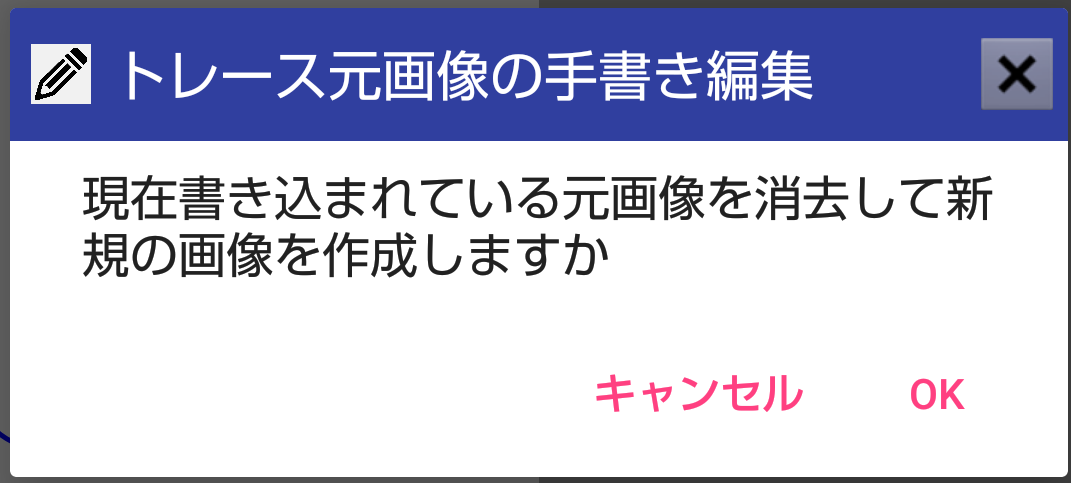
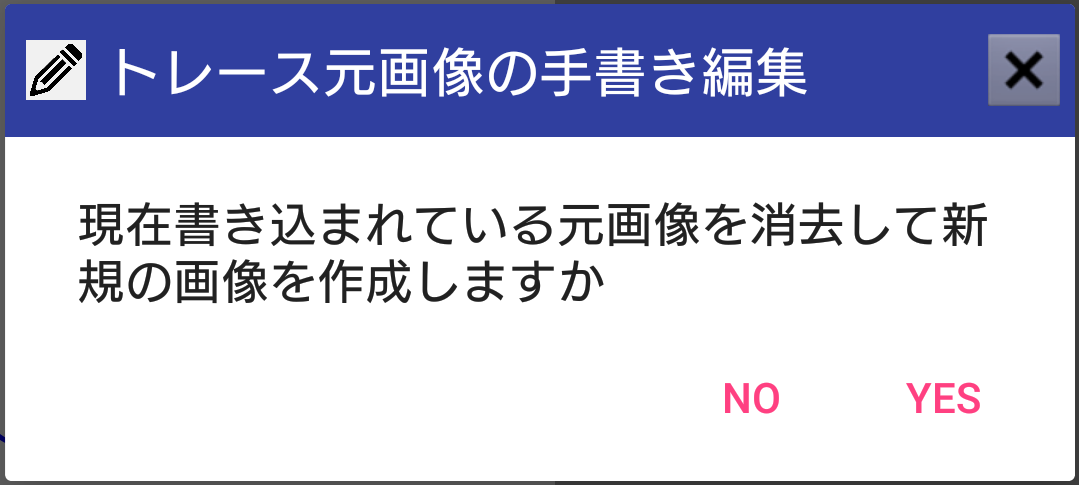
55

diff --git a/rb/public/about_and/index.html b/rb/public/about_and/index.html
@@ -633,7 +633,7 @@
                                                                                 タイトルと差替えにスコアの根拠になるピクセル数の表示
                                                                                 <ul>
                                                                                     <li>
-                                                                                        残りピクセル数 / 最初のピクセル数
+                                                                                        残りピクセル数 / 最初のピクセル数 ; トレースで書き込まれたピクセル数；ヒット率
                                                                                     </li>
                                                                                 </ul>
                                                                             </li>
@@ -682,32 +682,32 @@
                                                     <div class="row">
                                                         <div class="col-xs-12 col-sm-6">
                                                             <div style="padding: 20px;margin-bottom: 10px;background-color: #e7f9fe;">
-                                                                <img src="../edit.png" style="width:20px;" align="left" alt="edit">アイコンをクリックすると右の様な「定例パターン」 ダイアログが表示されます。
+                                                                <img src="../edit.png" style="width:20px;" alt="edit">アイコンをクリックすると右の様な「定例パターン」 ダイアログが表示されます。
                                                             </div>
                                                             <div style="padding: 20px;margin-bottom: 10px;background-color: #e7f9fe;">
                                                                 キャンセルする場合はタイトルバー右端のクローズボックスで閉じます。<br> (web版と使い方を揃える為のカスタムIFです)
                                                             </div>
                                                         </div>
                                                         <div class="col-xs-12 col-sm-6">
-                                                            <img src="patarnselect.png" class="phorRes" style="width:100%;" align="top" alt="patarnselect"> </div>
+                                                            <img src="patarnselect.png" class="phorRes" style="width:100%;" alt="patarnselect"> </div>
                                                     </div>
                                                     <p></p>
                                                     <div class="row">
                                                         <div class="col-xs-12 col-sm-4">
-                                                            <img src="trace_menu.png" class="phorRes" style="width:100%;" align="top" alt="trace_menu">
+                                                            <img src="trace_menu.png" class="phorRes" style="width:100%;"  alt="trace_menu">
                                                         </div>
                                                         <div class="col-xs-12 col-sm-8">
                                                             タッチ（ロングタップ）するとトレース元画像の操作メニューを表示します。<br><br><br>
-                                                            <img src="fileselect.png" class="phorRes" style="width:80%;" align="bottom"" alt="fileselect">
+                                                            <img src="fileselect.png" class="phorRes" style="width:80%;"　alt="fileselect">
 
                                                         </div>
                                                     </div>
                                                     <p></p>
 
                                                     <div class="row">
-                                                        <div class="col-xs-12 col-sm-8" style="padding: 10px;background-color: #dff0d8;">
+                                                        <div class="col-xs-12 col-sm-12" style="padding: 10px;background-color: #dff0d8;">
                                                             <h4>ファイルから読み込み</h4>
-                                                            <div class="alert btn-sm" role="alert" style="background-color: #F6CEF5;border-radius: 15px;">
+                                                            <!-- <div class="alert btn-sm" role="alert" style="background-color: #F6CEF5;border-radius: 15px;">
                                                                 <ul>
                                                                     <li>
                                                                         制作中の機能ですので暫定仕様です。
@@ -716,7 +716,7 @@
                                                                         ファイル選択後、読み込みが完了してダイアログが消えます。
                                                                     </li>
                                                                 </ul>
-                                                            </div>
+                                                            </div> -->
                                                             <div class="alert btn-sm" role="alert" style="background-color: #F6CEF5;border-radius: 15px;">
                                                                 使用できる画像の目安
                                                                 <table style="border-collapse: collapse;">
@@ -771,11 +771,11 @@
                                                                 Design 4</a>など、ドロー系のアプリケーションがお勧めです。
                                                             </div>
                                                         </div>
-                                                        <div class="col-xs-12 col-sm-4">
+                                                        <!-- <div class="col-xs-12 col-sm-4">
                                                             <div style="background-color: #eeeeee;margin: 10px;width: fit-content;">
                                                                 <input type="file" 　name="files[]" />
                                                             </div>
-                                                        </div>
+                                                        </div> -->
                                                     </div>
                                                     <p></p>
 
@@ -874,7 +874,7 @@
                                                                     「トレース元画像」で「手書きで作成」を選択するとトレースラインを消去して、表示されている画像をどうするかを伺います。
                                                                     <ul>
                                                                         <li>
-                                                                            OK で表示されている元画像を全消去します。
+                                                                            YES で表示されている元画像を全消去します。
                                                                         </li>
                                                                         <li>
                                                                             NO で元画像を保持し、追記できる様にします。
@@ -882,7 +882,14 @@
                                                                         <li>
                                                                             「手書きで作成」へのモード切替をキャンセルする場合はタイトルバー右端のクローズボックスで閉じます。
                                                                         </li>
-                                                                    </ul>
+                                                                        <li>
+                                                                            「トレーズモード」へ戻る場合はツール選択セレクタの「確定」出戻ってください。
+                                                                        </li>
+                                                                        <li>
+                                                                            手書きで作成した画像を保存する場合は、トレーズモードへ戻り、「変形」の「保存」。<br>
+                                                                            「作成したファイルの保存場所」に設定しているフォルダにpingで保存されます。
+                                                                        </li>
+                                                                  </ul>
                                                                 </div>
                                                             </div>
                                                             <P></P>
@@ -1213,6 +1220,11 @@
                                                                                 <div style="margin-bottom: 10px;background-color: #e7f9fe;">
                                                                                     セキュリティの設定なので変更できない場合は、インストール時に書込める場所を検索して固定値にします。
                                                                                 </div>
+                                                                                <ul>
+                                                                                    <li>基本的にシステムでその端末の画像保存エリアに設定してある「Pictures」に「Recovery_Brain」というフォルダを作成します。</li>
+                                                                                    <li>「Pictures」が使えない場合は「DCIM」フォルダに保存します。</li>
+                                                                                    <li>ファイル名は作成日時です。</li>
+                                                                                </ul>
                                                                             </li>
                                                                             <li>
                                                                                 自動回転阻止
